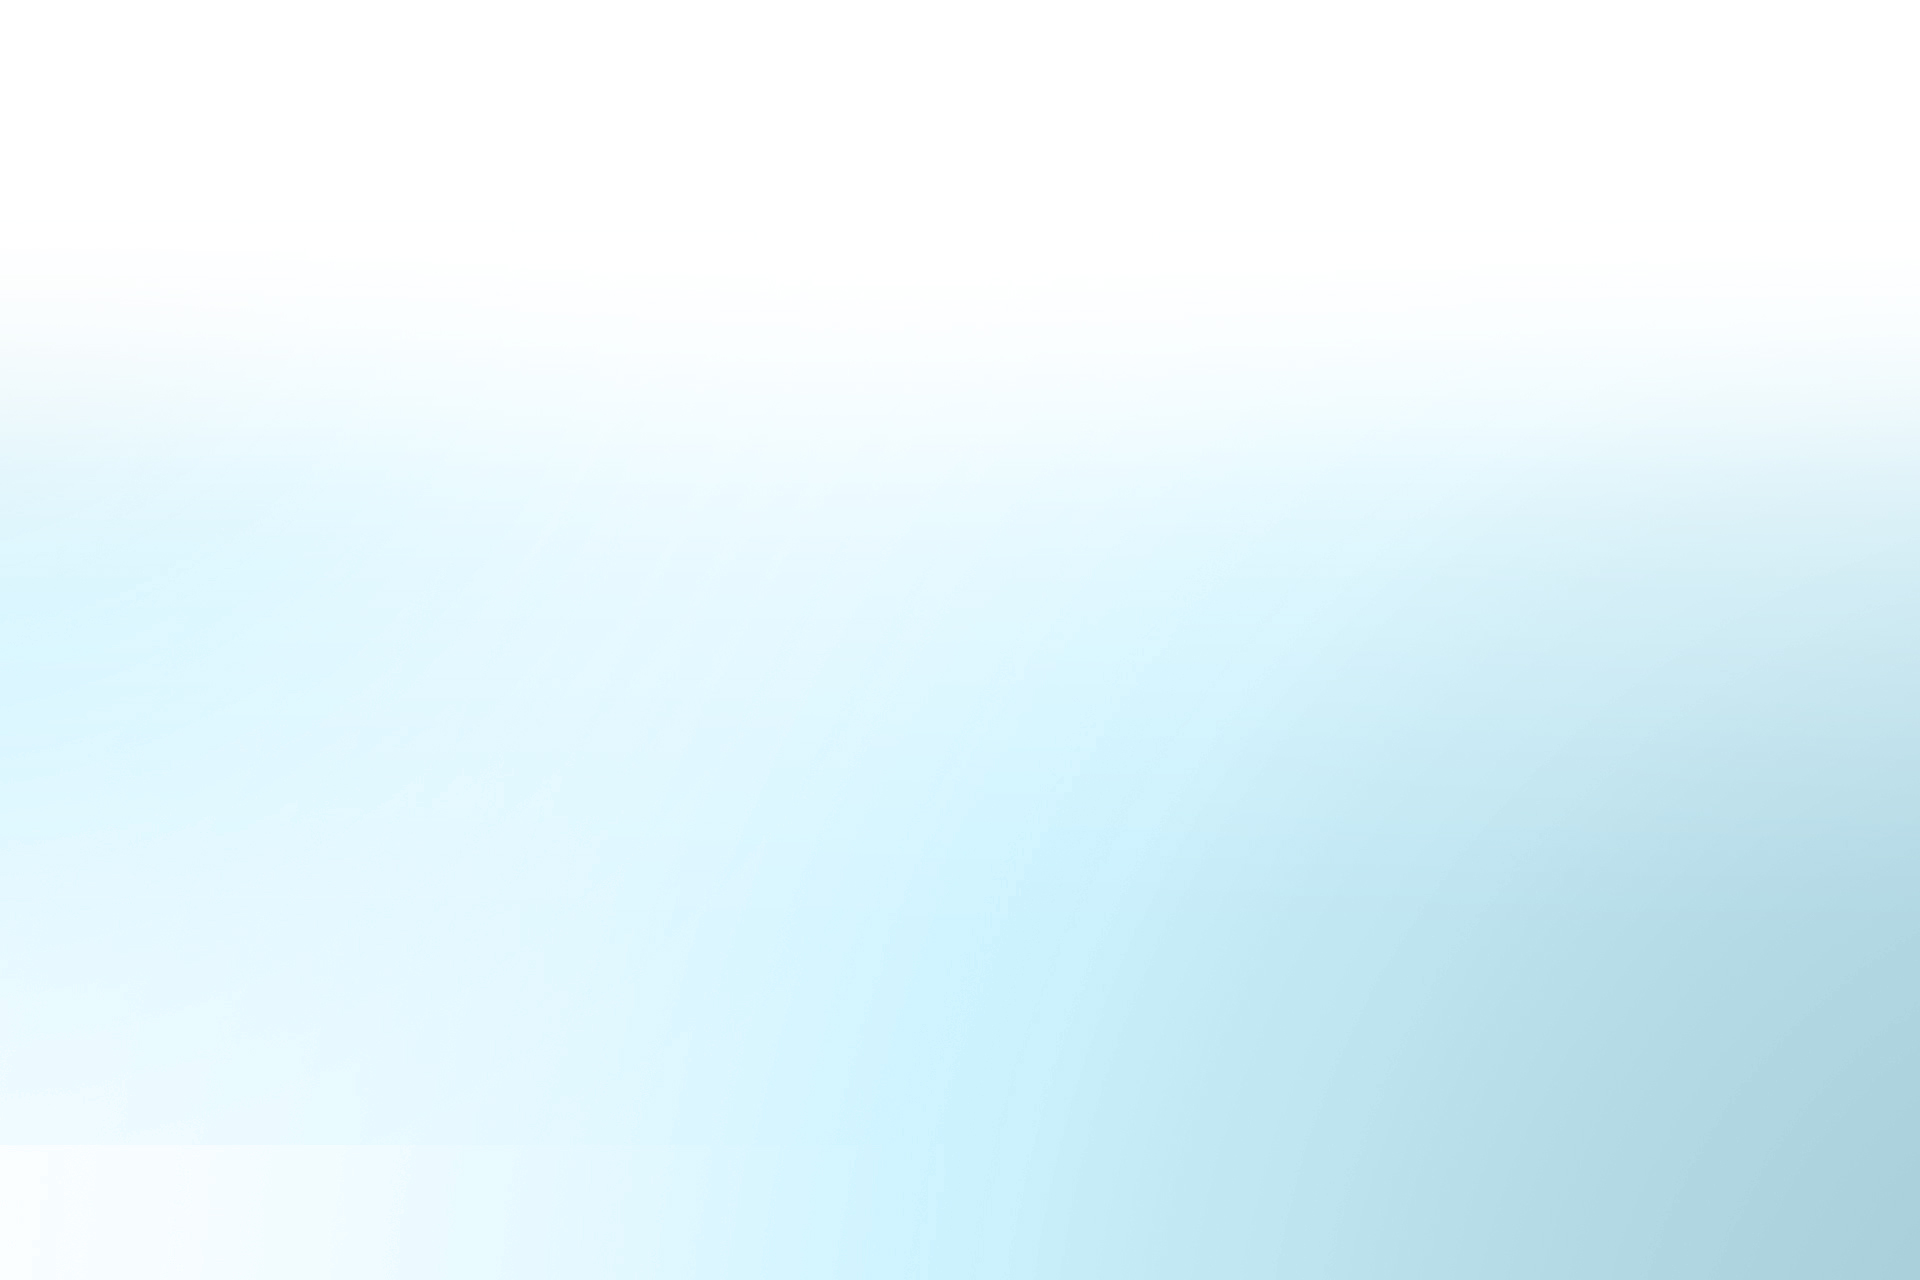
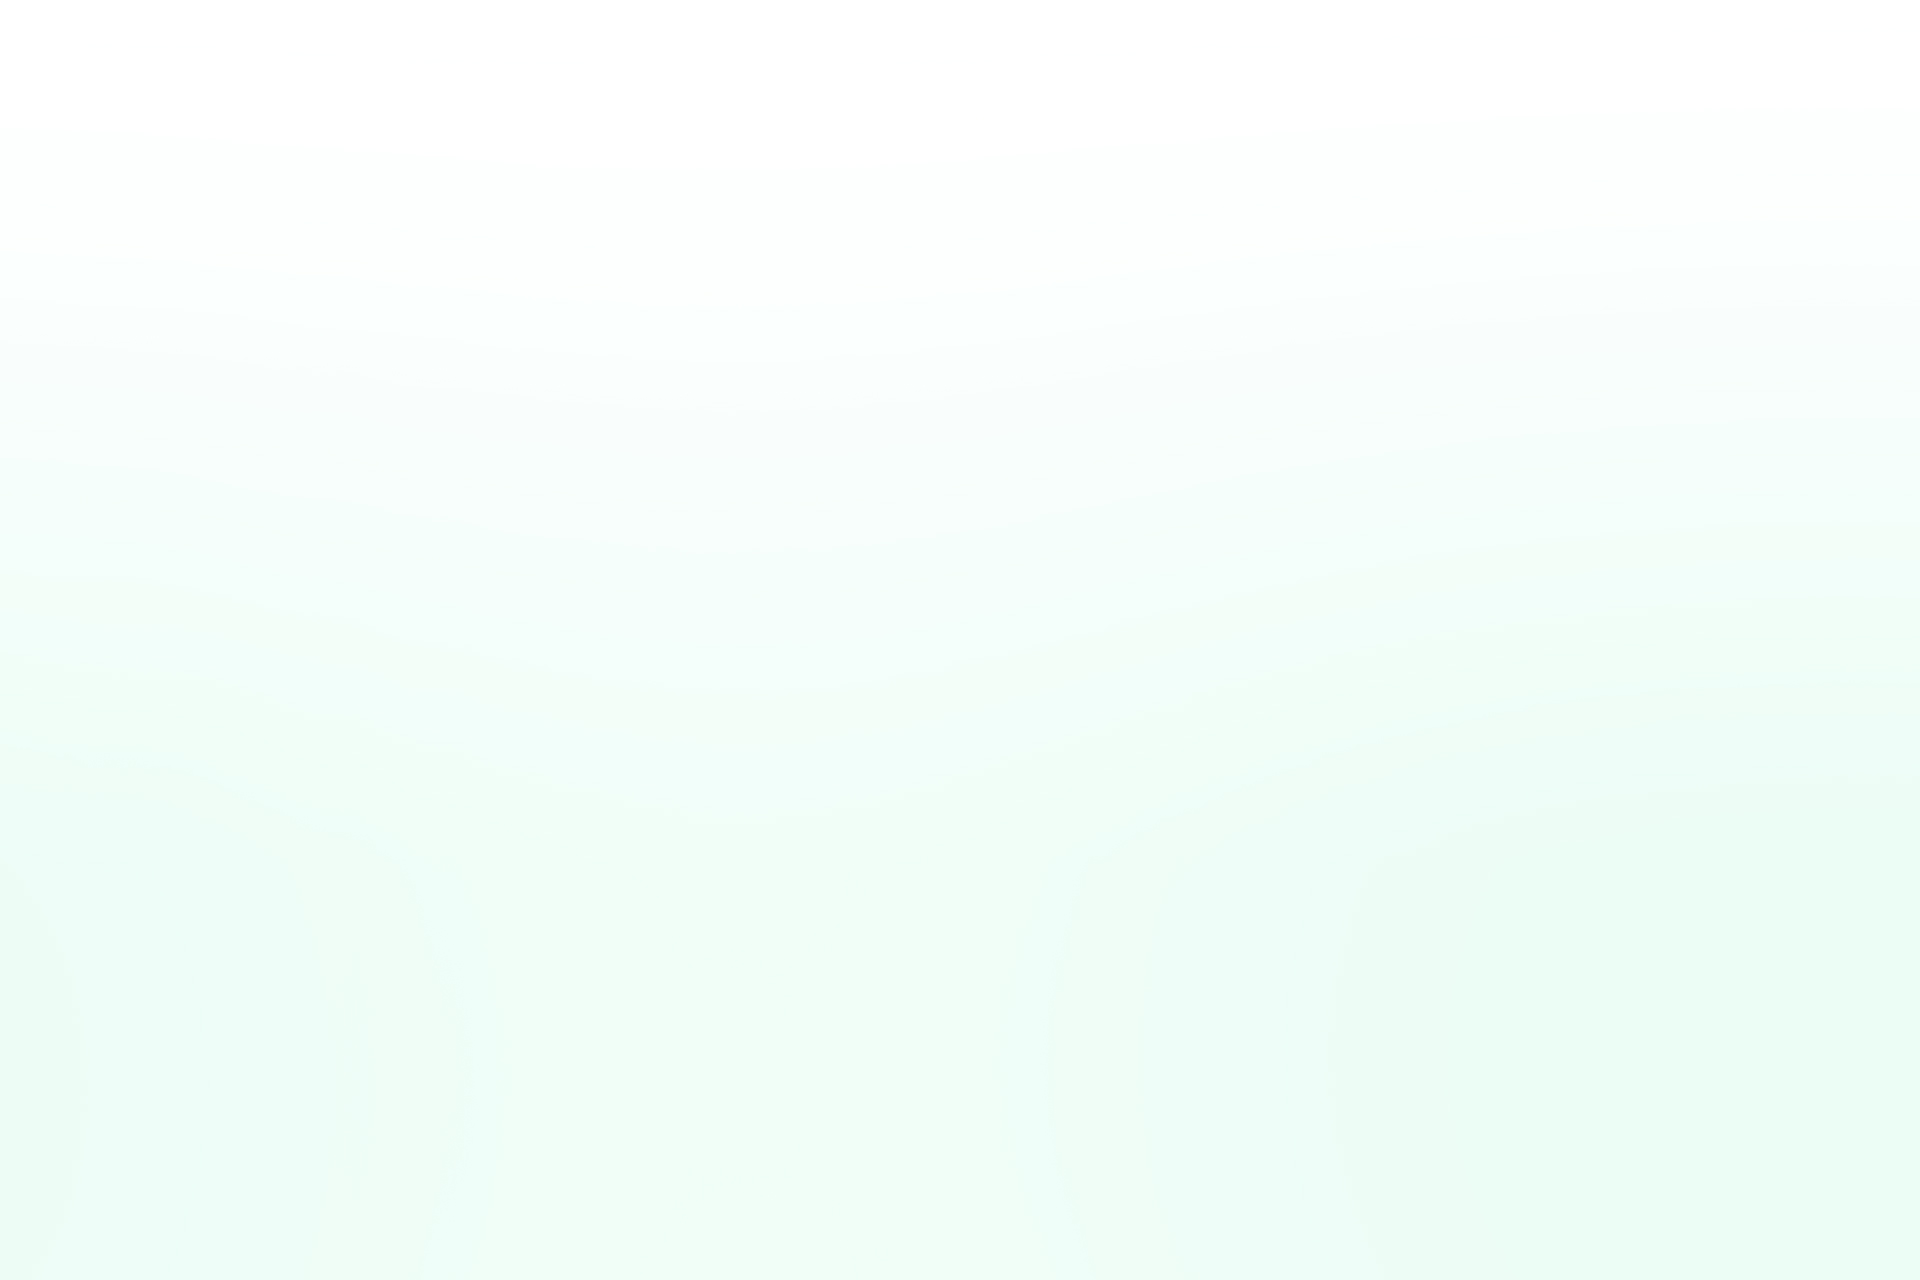
Add files via upload

diff --git a/css/portfolio.css b/css/portfolio.css
@@ -9,15 +9,15 @@ a {text-decoration:none;}
 
 /*내비게이션*/
 nav {position:fixed; width:100%; top:0;  padding:20pt 10pt 10pt 10pt; font-weight:bold; z-index:1; transition:0.3s;}
-nav.act {background:#5b818a;}
+nav.act {background:#70C3A6;}
 nav> div {max-width:1490px; margin:auto; display:flex;}
 nav p {flex:1; font-size:1.2rem; color:white;}
 nav a {margin-left:20pt; color:white; /*text-shadow:0 0 5px #254554;*/}
-nav a:hover, a.active {color:#0e2d39;}
+nav a:hover, a.active {color:#002952;}
 
 /*헤더*/
-#top {height:100vh; background:url("../images/bg1.jpg") no-repeat fixed center top / cover;}
-#typing{padding:40vh 1px 0 1px; color:white; text-align:center; line-height:160%; font-size:2.5rem; height:60vh; text-shadow:0px 0px 3px #0e2d39;}
+#top {height:100vh; background:url("../images/bg.jpg") no-repeat fixed center top / cover;}
+#typing{padding:30vh 1px 0 1px; color:white; text-align:center; line-height:160%; font-size:2.5rem; height:60vh; text-shadow:0px 0px 3px #0e2d39;}
 #scroll {max-width:100px; margin:auto; margin-top:30vh; text-align:center;}
 #top i {font-size:2.5rem; color:white; display:block; animation:down 1s infinite both;}
 @keyframes down{
@@ -32,7 +32,7 @@ h2 {text-align:center; font-size:3rem; margin-bottom:60pt; color:black;}
 
 
 /*About*/
-#about {background:#deeaee;}
+#about {background:#EAFDF5;}
 #about img {width:400pt; margin:0pt auto; }
 #about> p {max-width:150pt; margin:auto; text-align:center;}
 #about  q {font-weight:bold; font-size:1.2rem; line-height:200%;}
@@ -46,8 +46,8 @@ h2 {text-align:center; font-size:3rem; margin-bottom:60pt; color:black;}
 
 #skill> div {display:flex; align-items:center;}
 #skill> div> span {display:block; width:100px; color:#5D5D5D;}
-#skill> div> div {width:200px; height:20px; background:#eff7ff; margin-left:10px;}
-#skill> div> div span {display:block; height:100%; background:#3e5f6c; text-align:right; font-size:0.9rem; font-weight:bold; color:#f1f1f1; line-height:130%; padding-right:6px;}
+#skill> div> div {width:200px; height:20px; background:#fff; margin-left:10px;}
+#skill> div> div span {display:block; height:100%; background:#70C3A6; text-align:right; font-size:0.9rem; font-weight:bold; color:#FFF; line-height:130%; padding-right:6px;}
 
 .w1, .w2, .w3, .w4, .w5 {width:0;}
 
@@ -119,7 +119,7 @@ h2 {text-align:center; font-size:3rem; margin-bottom:60pt; color:black;}
 #contact b 	{display:block; font-size:1.1rem; font-weight:400; padding-top:20pt;}
 #contact div {max-width:600px; margin:auto; display:flex; padding-top:30pt;}
 #contact section {flex:1; text-align:center;}
-#contact i, #contact a.fas {font-size:5rem; color:#375e67; padding-bottom:10pt;}
+#contact i, #contact a.fas {font-size:5rem; color:#70C3A6; padding-bottom:10pt;}
 #contact h3+a {color:black;}
 
 
